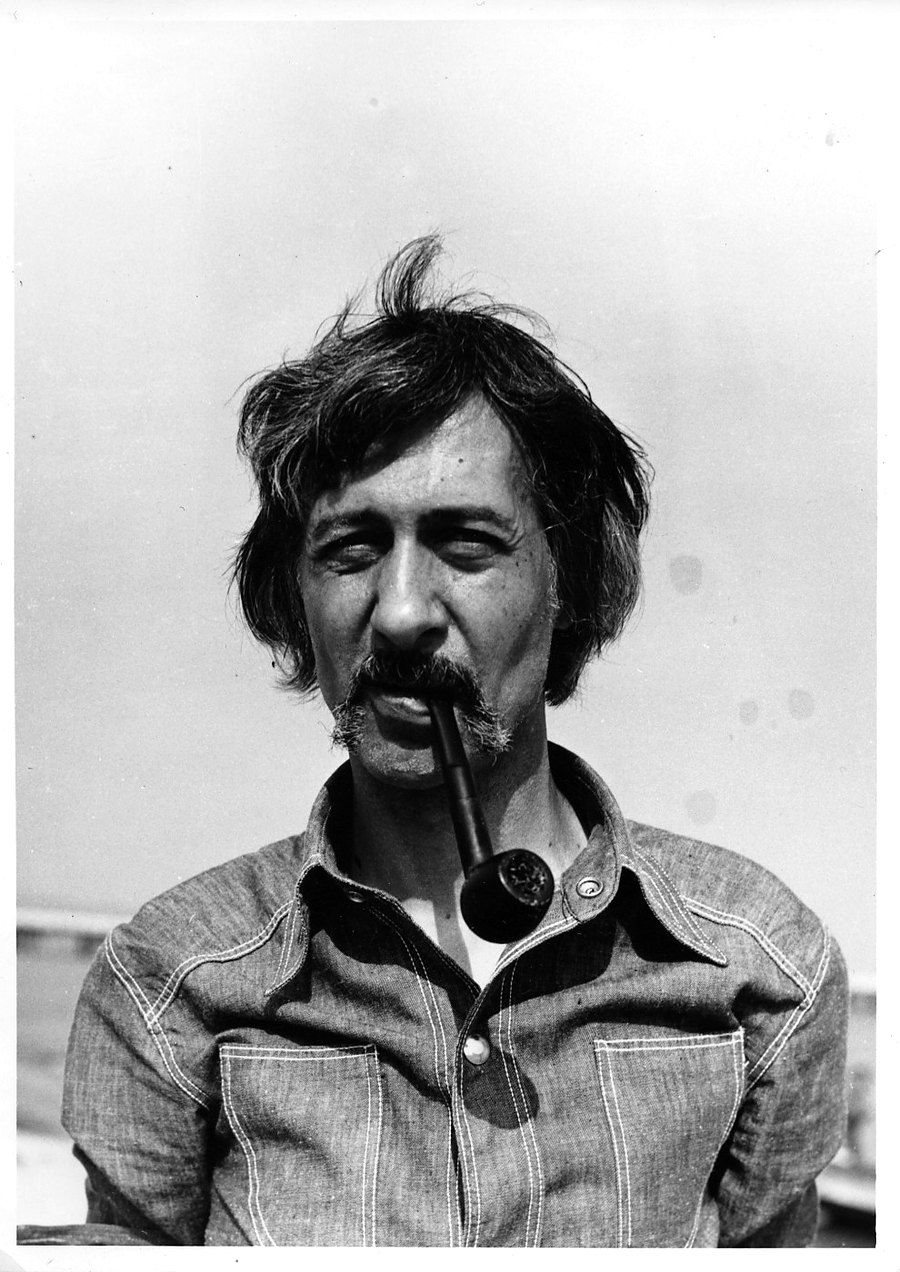
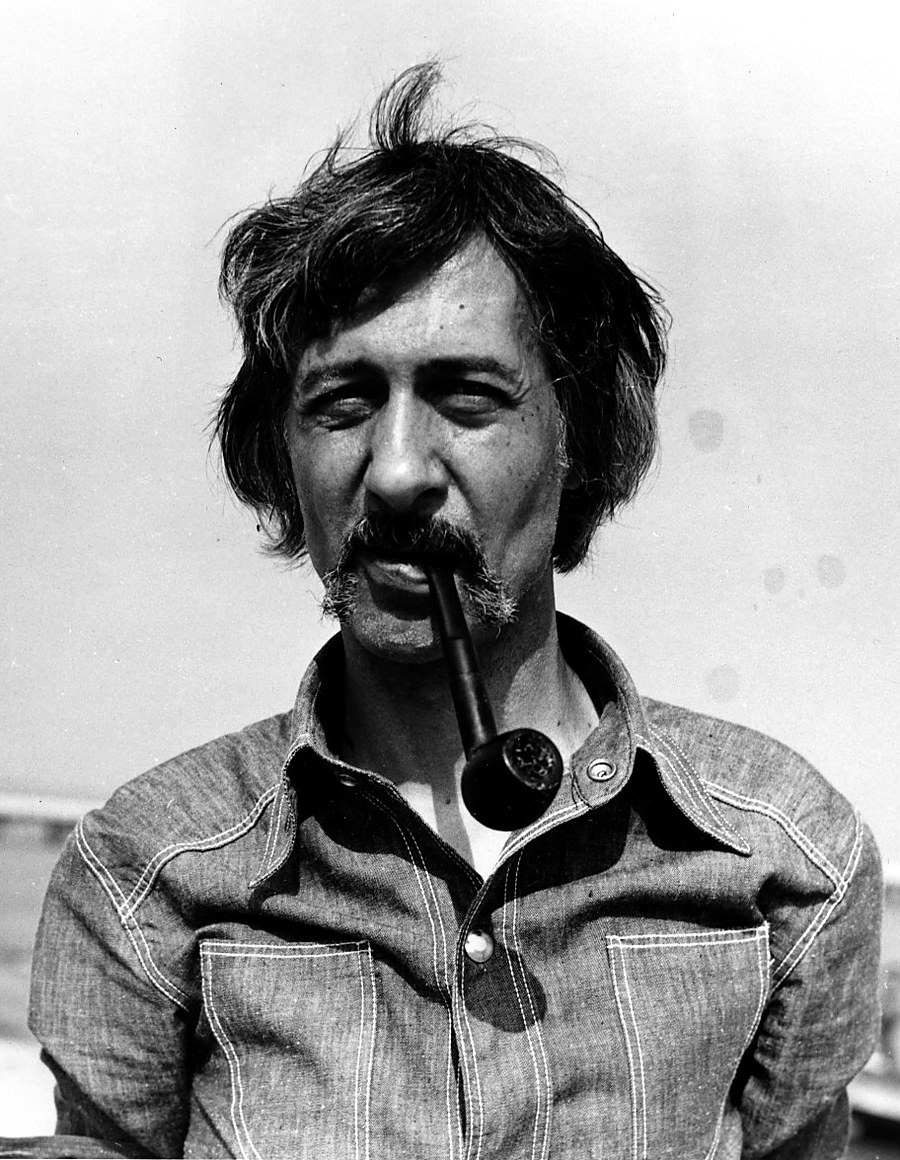
i18n (PL·EN·FR·JP·CN) dla landingu + strojenie kadru portretu
Portret: przekadrowany (odjęty niebo od góry ~14%, boki ~4%), lekko podbita ostrość
i kontrast; nadal 900px szerokości, ~250 KB JPEG.

i18n na landingu:
- data-i18n na wszystkich napisach nav + hero + context-bar + latest strip
- Słownik I18N dla 5 języków: pl, en, fr, ja, zh
- Przełącznik: PL·EN·FR·JP·CN wywołuje applyLang(); wybór zapisany w localStorage
- Init: najpierw localStorage, potem navigator.language, fallback PL
- CJK renderują się przez system font stack (Hiragino/PingFang — nie ma potrzeby
  ładować CJK webfonts, waga strony pod kontrolą)

UWAGA: wewnętrzne widoki (Archiwum, Kalendarium, Konstelacja, Korpus, Pojęcia,
Bibliografia, Wystąpienia, Gra) nadal mają swoje własne teksty w JS (po EN, tak
jak w oryginale) — to jest przygotowane pod następną iterację tłumaczeń
konkretnych sekcji.

diff --git a/index.html b/index.html
@@ -336,24 +336,24 @@ blockquote { margin:12px 0; padding:12px 18px; border-left:3px solid var(--accen
 <canvas id="landingCanvas" style="display:none;"></canvas>
 
 <div class="context-bar" aria-label="Ramka kontekstu sesji">
-  <span class="cb-label">Kontekst 001</span>
+  <span class="cb-label" data-i18n="ctx.label">Kontekst 001</span>
   <span class="cb-item" id="cbPlace">Warszawa</span>
   <span class="cb-item" id="cbTime">21:47</span>
   <span class="cb-item" id="cbLang">PL</span>
-  <span class="cb-note"><b>Ta strona jest pracą kontekstualną.</b> Odczyt zmienia się z miejscem i porą.</span>
+  <span class="cb-note" data-i18n="ctx.note"><b>Ta strona jest pracą kontekstualną.</b> Odczyt zmienia się z miejscem i porą.</span>
 </div>
 
 <nav>
   <a class="nav-logo" href="#" onclick="showView('landing');return false;">Świdziński</a>
-  <button onclick="showView('archive')" data-view="archive">Archiwum</button>
-  <button onclick="showView('timeline')" data-view="timeline">Kalendarium</button>
-  <button onclick="showView('graph')" data-view="graph">Konstelacja</button>
-  <button onclick="showView('texts')" data-view="texts">Korpus</button>
-  <button onclick="showView('concepts')" data-view="concepts">Pojęcia</button>
-  <button onclick="showView('biblio')" data-view="biblio">Bibliografia</button>
-  <button onclick="showView('festivals')" data-view="festivals">Wystąpienia</button>
-  <button onclick="showView('game')" data-view="game">Gra</button>
-  <button onclick="window.open('study.html','_blank')" style="color:var(--gold) !important">Studium ↗</button>
+  <button onclick="showView('archive')" data-view="archive" data-i18n="nav.archive">Archiwum</button>
+  <button onclick="showView('timeline')" data-view="timeline" data-i18n="nav.timeline">Kalendarium</button>
+  <button onclick="showView('graph')" data-view="graph" data-i18n="nav.graph">Konstelacja</button>
+  <button onclick="showView('texts')" data-view="texts" data-i18n="nav.texts">Korpus</button>
+  <button onclick="showView('concepts')" data-view="concepts" data-i18n="nav.concepts">Pojęcia</button>
+  <button onclick="showView('biblio')" data-view="biblio" data-i18n="nav.biblio">Bibliografia</button>
+  <button onclick="showView('festivals')" data-view="festivals" data-i18n="nav.festivals">Wystąpienia</button>
+  <button onclick="showView('game')" data-view="game" data-i18n="nav.game">Gra</button>
+  <button onclick="window.open('study.html','_blank')" style="color:var(--gold) !important" data-i18n="nav.study">Studium ↗</button>
   <div class="nav-right">
     <div class="lang" aria-label="Język">
       <a class="active" href="#">PL</a>
@@ -382,48 +382,48 @@ blockquote { margin:12px 0; padding:12px 18px; border-left:3px solid var(--accen
         <img src="swidzinski_portrait.jpg" alt="Jan Świdziński z fajką, portret archiwalny">
       </div>
       <div class="hero-cstrip">
-        <span>Warszawa · ok. 1978</span>
-        <span>fot. n.n.</span>
-        <span>archiwum prywatne</span>
+        <span data-i18n="hero.cstrip_place">Warszawa · ok. 1978</span>
+        <span data-i18n="hero.cstrip_credit">fot. n.n.</span>
+        <span data-i18n="hero.cstrip_source">archiwum prywatne</span>
       </div>
     </div>
     <div class="hero-text-col">
-      <div class="hero-eyebrow">Sztuka kontekstualna · 1923—2014</div>
-      <h1 class="hero-h1" id="heroTitle">Sztuka jest tym,<br>co pokazuję<br><em>jako sztukę.</em></h1>
-      <div class="hero-h1-en"><em>Art is what I show as art.</em></div>
-      <p class="hero-lead">An interdisciplinary artist, theorist, and philosopher who argued that meaning is never fixed — it emerges from <em>context</em>.</p>
+      <div class="hero-eyebrow" data-i18n="hero.eyebrow">Sztuka kontekstualna · 1923—2014</div>
+      <h1 class="hero-h1" id="heroTitle" data-i18n="hero.h1">Sztuka jest tym,<br>co pokazuję<br><em>jako sztukę.</em></h1>
+      <div class="hero-h1-en" data-i18n="hero.h1_echo"><em>Art is what I show as art.</em></div>
+      <p class="hero-lead" data-i18n="hero.lead">An interdisciplinary artist, theorist, and philosopher who argued that meaning is never fixed — it emerges from <em>context</em>.</p>
       <div class="hero-cta">
-        <button class="primary" onclick="showView('archive')">Explore the Archive</button>
-        <button onclick="showView('game')">Play the Game</button>
+        <button class="primary" onclick="showView('archive')" data-i18n="hero.cta_primary">Explore the Archive</button>
+        <button onclick="showView('game')" data-i18n="hero.cta_secondary">Play the Game</button>
       </div>
       <div class="hero-byline">
-        <span>Kurator portalu: <b>Jan Lubicz Przyłuski</b></span>
-        <span>Wydanie <b>1.0</b> · IX 2026</span>
+        <span><span data-i18n="hero.byline_curator">Kurator portalu:</span> <b>Jan Lubicz Przyłuski</b></span>
+        <span><span data-i18n="hero.byline_edition">Wydanie</span> <b>1.0</b> · IX 2026</span>
       </div>
     </div>
   </section>
   <section class="hero-latest" aria-label="Ostatnie wpisy w korpusie">
-    <div class="hero-latest-label"><b>Ostatnie</b>wpisy<br>w&nbsp;korpusie</div>
+    <div class="hero-latest-label" data-i18n="latest.label"><b>Ostatnie</b>wpisy<br>w&nbsp;korpusie</div>
     <div class="hero-latest-list">
       <div class="hero-latest-item">
         <div class="y">1976 · VIII</div>
         <h4>12 punktów sztuki kontekstualnej</h4>
-        <div class="pl">Warszawa · manifest · pl</div>
+        <div class="pl" data-i18n="latest.1.pl">Warszawa · manifest · pl</div>
       </div>
       <div class="hero-latest-item">
         <div class="y">1976 · II</div>
         <h4>Freedom of Art?</h4>
-        <div class="pl">S:t Petri Lund · wykład · en</div>
+        <div class="pl" data-i18n="latest.2.pl">S:t Petri Lund · wykład · en</div>
       </div>
       <div class="hero-latest-item">
         <div class="y">1977 · V</div>
         <h4>Art et Transformation Sociale</h4>
-        <div class="pl">Paryż · sympozjum · fr</div>
+        <div class="pl" data-i18n="latest.3.pl">Paryż · sympozjum · fr</div>
       </div>
       <div class="hero-latest-item">
         <div class="y">2010</div>
         <h4>W moim kontekście</h4>
-        <div class="pl">CSW Warszawa · retrospektywa</div>
+        <div class="pl" data-i18n="latest.4.pl">CSW Warszawa · retrospektywa</div>
       </div>
     </div>
   </section>
@@ -1607,6 +1607,128 @@ function answerPointQuiz(idx,correct,target) {
 
 // init
 showView('landing');
+
+// ═══════════════════════════════════════════
+// i18n · PL / EN / FR / JA / ZH
+// ═══════════════════════════════════════════
+var I18N = {
+  pl: {
+    'nav.archive':'Archiwum','nav.timeline':'Kalendarium','nav.graph':'Konstelacja',
+    'nav.texts':'Korpus','nav.concepts':'Pojęcia','nav.biblio':'Bibliografia',
+    'nav.festivals':'Wystąpienia','nav.game':'Gra','nav.study':'Studium ↗',
+    'ctx.label':'Kontekst 001',
+    'ctx.note':'<b>Ta strona jest pracą kontekstualną.</b> Odczyt zmienia się z miejscem i porą.',
+    'hero.eyebrow':'Sztuka kontekstualna · 1923—2014',
+    'hero.h1':'Sztuka jest tym,<br>co pokazuję<br><em>jako sztukę.</em>',
+    'hero.h1_echo':'<em>Art is what I show as art.</em>',
+    'hero.lead':'Interdyscyplinarny artysta, teoretyk i filozof — dowodzący, że znaczenie nigdy nie jest ustalone; wyłania się z <em>kontekstu</em>.',
+    'hero.cta_primary':'Wejdź do archiwum','hero.cta_secondary':'Zagraj w kontekst',
+    'hero.byline_curator':'Kurator portalu:','hero.byline_edition':'Wydanie',
+    'hero.cstrip_place':'Warszawa · ok. 1978','hero.cstrip_credit':'fot. n.n.','hero.cstrip_source':'archiwum prywatne',
+    'latest.label':'<b>Ostatnie</b>wpisy<br>w&nbsp;korpusie',
+    'latest.1.pl':'Warszawa · manifest · pl','latest.2.pl':'S:t Petri Lund · wykład · en',
+    'latest.3.pl':'Paryż · sympozjum · fr','latest.4.pl':'CSW Warszawa · retrospektywa'
+  },
+  en: {
+    'nav.archive':'Archive','nav.timeline':'Chronology','nav.graph':'Constellation',
+    'nav.texts':'Corpus','nav.concepts':'Concepts','nav.biblio':'Bibliography',
+    'nav.festivals':'Appearances','nav.game':'Game','nav.study':'Study ↗',
+    'ctx.label':'Context 001',
+    'ctx.note':'<b>This site is a contextual work.</b> Its reading shifts with place and hour.',
+    'hero.eyebrow':'Contextual Art · 1923—2014',
+    'hero.h1':'Art is what<br>I show<br><em>as art.</em>',
+    'hero.h1_echo':'<em>Sztuka jest tym, co pokazuję jako sztukę.</em>',
+    'hero.lead':'An interdisciplinary artist, theorist, and philosopher who argued that meaning is never fixed — it emerges from <em>context</em>.',
+    'hero.cta_primary':'Explore the Archive','hero.cta_secondary':'Play the Game',
+    'hero.byline_curator':'Portal curator:','hero.byline_edition':'Edition',
+    'hero.cstrip_place':'Warsaw · c. 1978','hero.cstrip_credit':'photo n.n.','hero.cstrip_source':'private archive',
+    'latest.label':'<b>Latest</b>entries<br>in&nbsp;the corpus',
+    'latest.1.pl':'Warsaw · manifesto · pl','latest.2.pl':'S:t Petri Lund · lecture · en',
+    'latest.3.pl':'Paris · symposium · fr','latest.4.pl':'CSW Warsaw · retrospective'
+  },
+  fr: {
+    'nav.archive':'Archives','nav.timeline':'Chronologie','nav.graph':'Constellation',
+    'nav.texts':'Corpus','nav.concepts':'Notions','nav.biblio':'Bibliographie',
+    'nav.festivals':'Interventions','nav.game':'Jeu','nav.study':'Étude ↗',
+    'ctx.label':'Contexte 001',
+    'ctx.note':"<b>Cette page est une œuvre contextuelle.</b> Sa lecture change selon le lieu et l'heure.",
+    'hero.eyebrow':'Art contextuel · 1923—2014',
+    'hero.h1':"L'art est ce<br>que je montre<br><em>comme art.</em>",
+    'hero.h1_echo':'<em>Art is what I show as art.</em>',
+    'hero.lead':"Artiste interdisciplinaire, théoricien et philosophe — pour qui le sens n'est jamais fixé ; il émerge du <em>contexte</em>.",
+    'hero.cta_primary':'Explorer les archives','hero.cta_secondary':'Jouer',
+    'hero.byline_curator':'Commissaire du portail :','hero.byline_edition':'Édition',
+    'hero.cstrip_place':'Varsovie · c. 1978','hero.cstrip_credit':'photo n.n.','hero.cstrip_source':'archives privées',
+    'latest.label':'<b>Derniers</b>ajouts<br>au&nbsp;corpus',
+    'latest.1.pl':'Varsovie · manifeste · pl','latest.2.pl':'S:t Petri Lund · conférence · en',
+    'latest.3.pl':'Paris · colloque · fr','latest.4.pl':'CSW Varsovie · rétrospective'
+  },
+  ja: {
+    'nav.archive':'アーカイブ','nav.timeline':'年表','nav.graph':'コンステレーション',
+    'nav.texts':'コーパス','nav.concepts':'概念','nav.biblio':'文献',
+    'nav.festivals':'出演','nav.game':'ゲーム','nav.study':'研究 ↗',
+    'ctx.label':'コンテクスト 001',
+    'ctx.note':'<b>このページはコンテクスチュアル・アート作品です。</b>読解は場所と時刻とともに変化します。',
+    'hero.eyebrow':'コンテクスチュアル・アート · 1923—2014',
+    'hero.h1':'アートとは<br>私がアートとして<br><em>示すもの。</em>',
+    'hero.h1_echo':'<em>Art is what I show as art.</em>',
+    'hero.lead':'意味は決して固定されず、コンテクストから立ち上がる——そう主張した、学際的な芸術家・理論家・哲学者。',
+    'hero.cta_primary':'アーカイブへ','hero.cta_secondary':'ゲームを開始',
+    'hero.byline_curator':'ポータル・キュレーター:','hero.byline_edition':'版',
+    'hero.cstrip_place':'ワルシャワ · 1978年頃','hero.cstrip_credit':'撮影 n.n.','hero.cstrip_source':'個人所蔵',
+    'latest.label':'<b>最新</b>コーパス<br>収録',
+    'latest.1.pl':'ワルシャワ · マニフェスト · pl','latest.2.pl':'S:t Petri Lund · 講演 · en',
+    'latest.3.pl':'パリ · シンポジウム · fr','latest.4.pl':'CSW ワルシャワ · 回顧展'
+  },
+  zh: {
+    'nav.archive':'档案','nav.timeline':'年表','nav.graph':'星座',
+    'nav.texts':'文集','nav.concepts':'概念','nav.biblio':'参考文献',
+    'nav.festivals':'活动','nav.game':'游戏','nav.study':'研究 ↗',
+    'ctx.label':'语境 001',
+    'ctx.note':'<b>本页面是一件情境作品。</b>阅读随地点与时间而变化。',
+    'hero.eyebrow':'情境艺术 · 1923—2014',
+    'hero.h1':'艺术,<br>就是我<br><em>作为艺术展示的东西。</em>',
+    'hero.h1_echo':'<em>Art is what I show as art.</em>',
+    'hero.lead':'一位跨学科艺术家、理论家和哲学家,主张意义从不固定——它从<em>情境</em>中涌现。',
+    'hero.cta_primary':'进入档案','hero.cta_secondary':'开始游戏',
+    'hero.byline_curator':'门户策展人:','hero.byline_edition':'版本',
+    'hero.cstrip_place':'华沙 · 约1978','hero.cstrip_credit':'摄影 n.n.','hero.cstrip_source':'私人收藏',
+    'latest.label':'<b>最新</b>收录<br>条目',
+    'latest.1.pl':'华沙 · 宣言 · pl','latest.2.pl':'S:t Petri Lund · 讲座 · en',
+    'latest.3.pl':'巴黎 · 研讨会 · fr','latest.4.pl':'CSW 华沙 · 回顾展'
+  }
+};
+var LANG_CODE_MAP = {pl:'pl', en:'en', fr:'fr', jp:'ja', cn:'zh'};
+var LANG_LABEL_MAP = {pl:'PL', en:'EN', fr:'FR', ja:'JP', zh:'CN'};
+function applyLang(lang) {
+  var dict = I18N[lang] || I18N.pl;
+  document.querySelectorAll('[data-i18n]').forEach(function(el){
+    var key = el.getAttribute('data-i18n');
+    if (dict[key] !== undefined) el.innerHTML = dict[key];
+  });
+  document.querySelectorAll('.lang a').forEach(function(a){
+    a.classList.toggle('active', a.textContent.trim() === (LANG_LABEL_MAP[lang] || lang.toUpperCase()));
+  });
+  document.documentElement.setAttribute('lang', lang);
+  var cbLang = document.getElementById('cbLang');
+  if (cbLang) cbLang.textContent = LANG_LABEL_MAP[lang] || lang.toUpperCase();
+  try { localStorage.setItem('sw-lang', lang); } catch(e) {}
+}
+document.querySelectorAll('.lang a').forEach(function(a){
+  a.addEventListener('click', function(e){
+    e.preventDefault();
+    var code = a.textContent.trim().toLowerCase();
+    applyLang(LANG_CODE_MAP[code] || code);
+  });
+});
+(function(){
+  try {
+    var saved = localStorage.getItem('sw-lang');
+    if (saved && I18N[saved]) { applyLang(saved); return; }
+  } catch(e) {}
+  var nav = (navigator.language || 'pl').split('-')[0];
+  if (I18N[nav]) applyLang(nav);
+})();
 
 // context bar — miejsce, godzina, język przeglądarki
 (function(){
